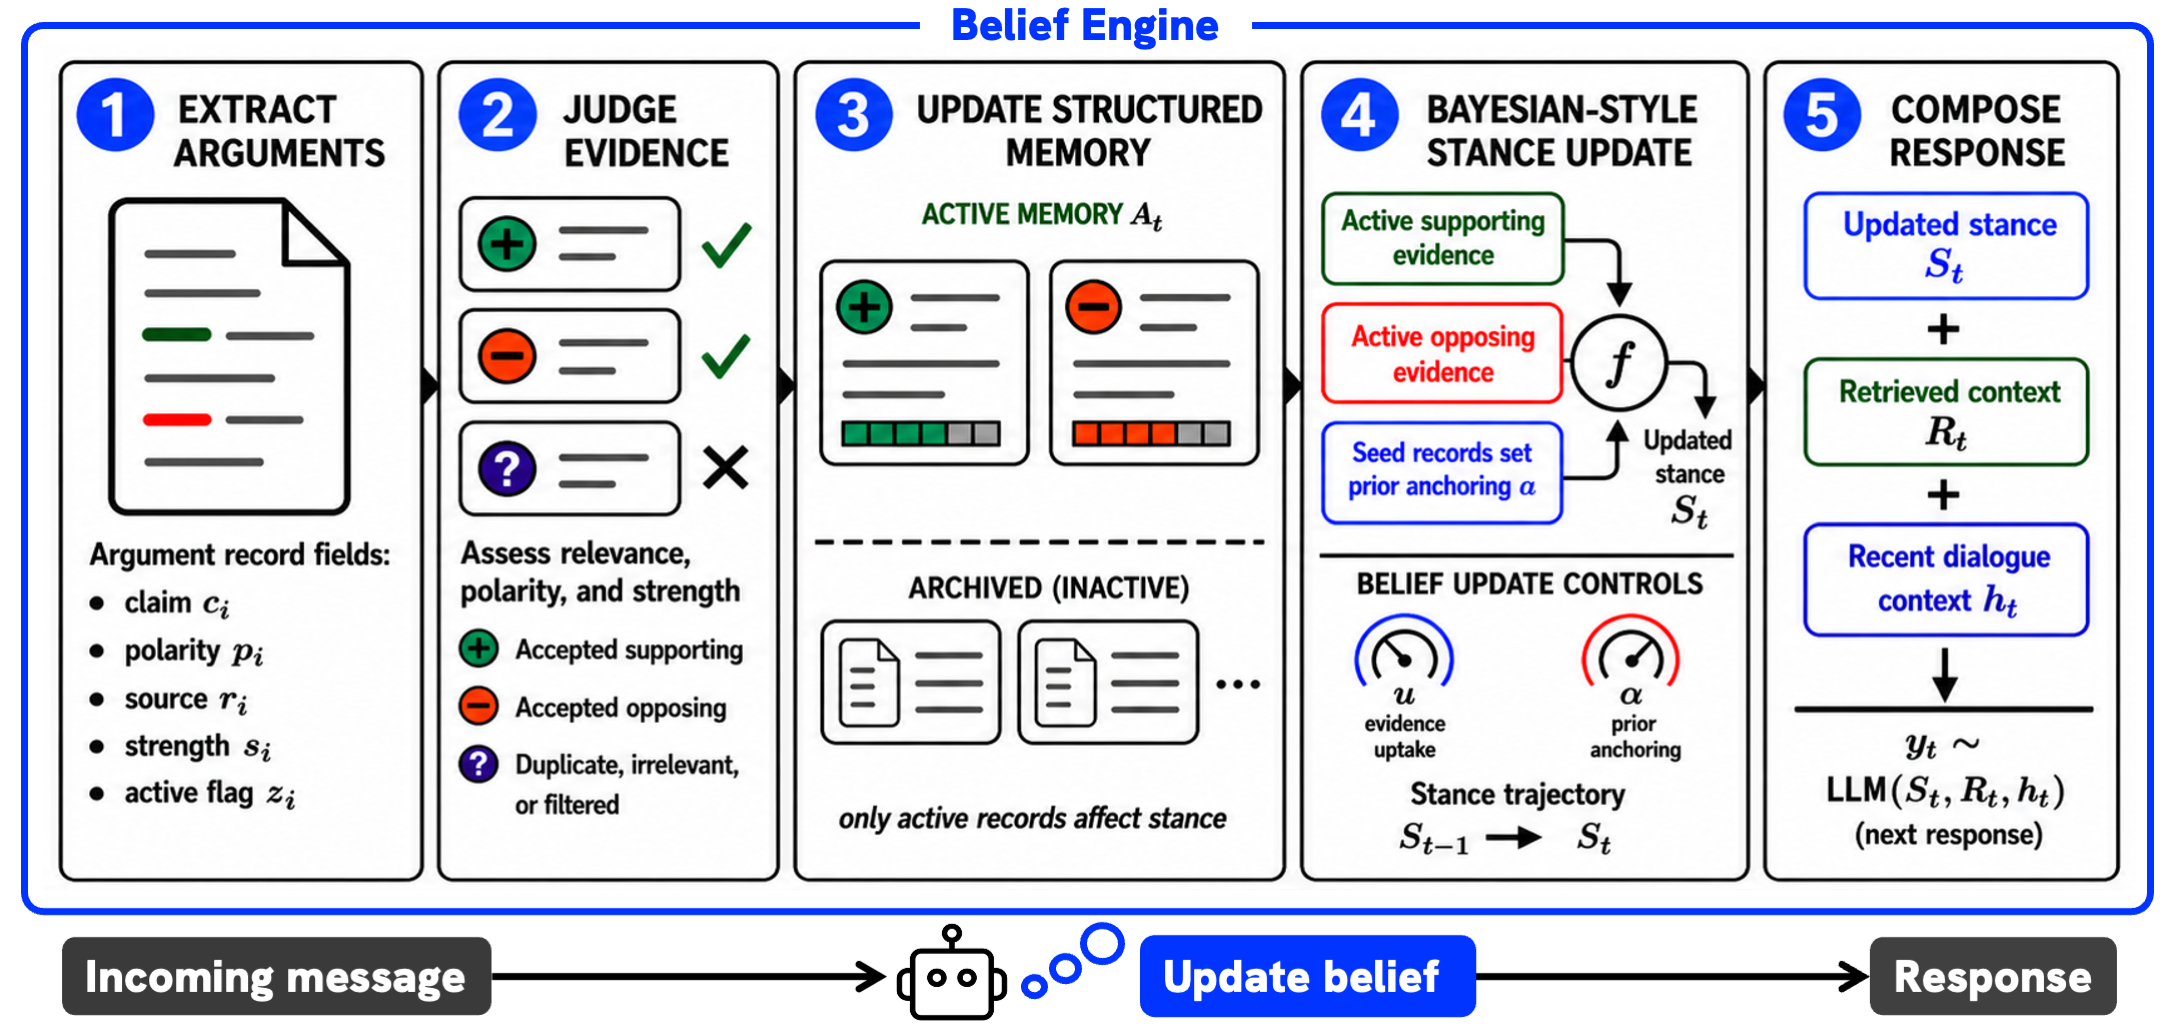
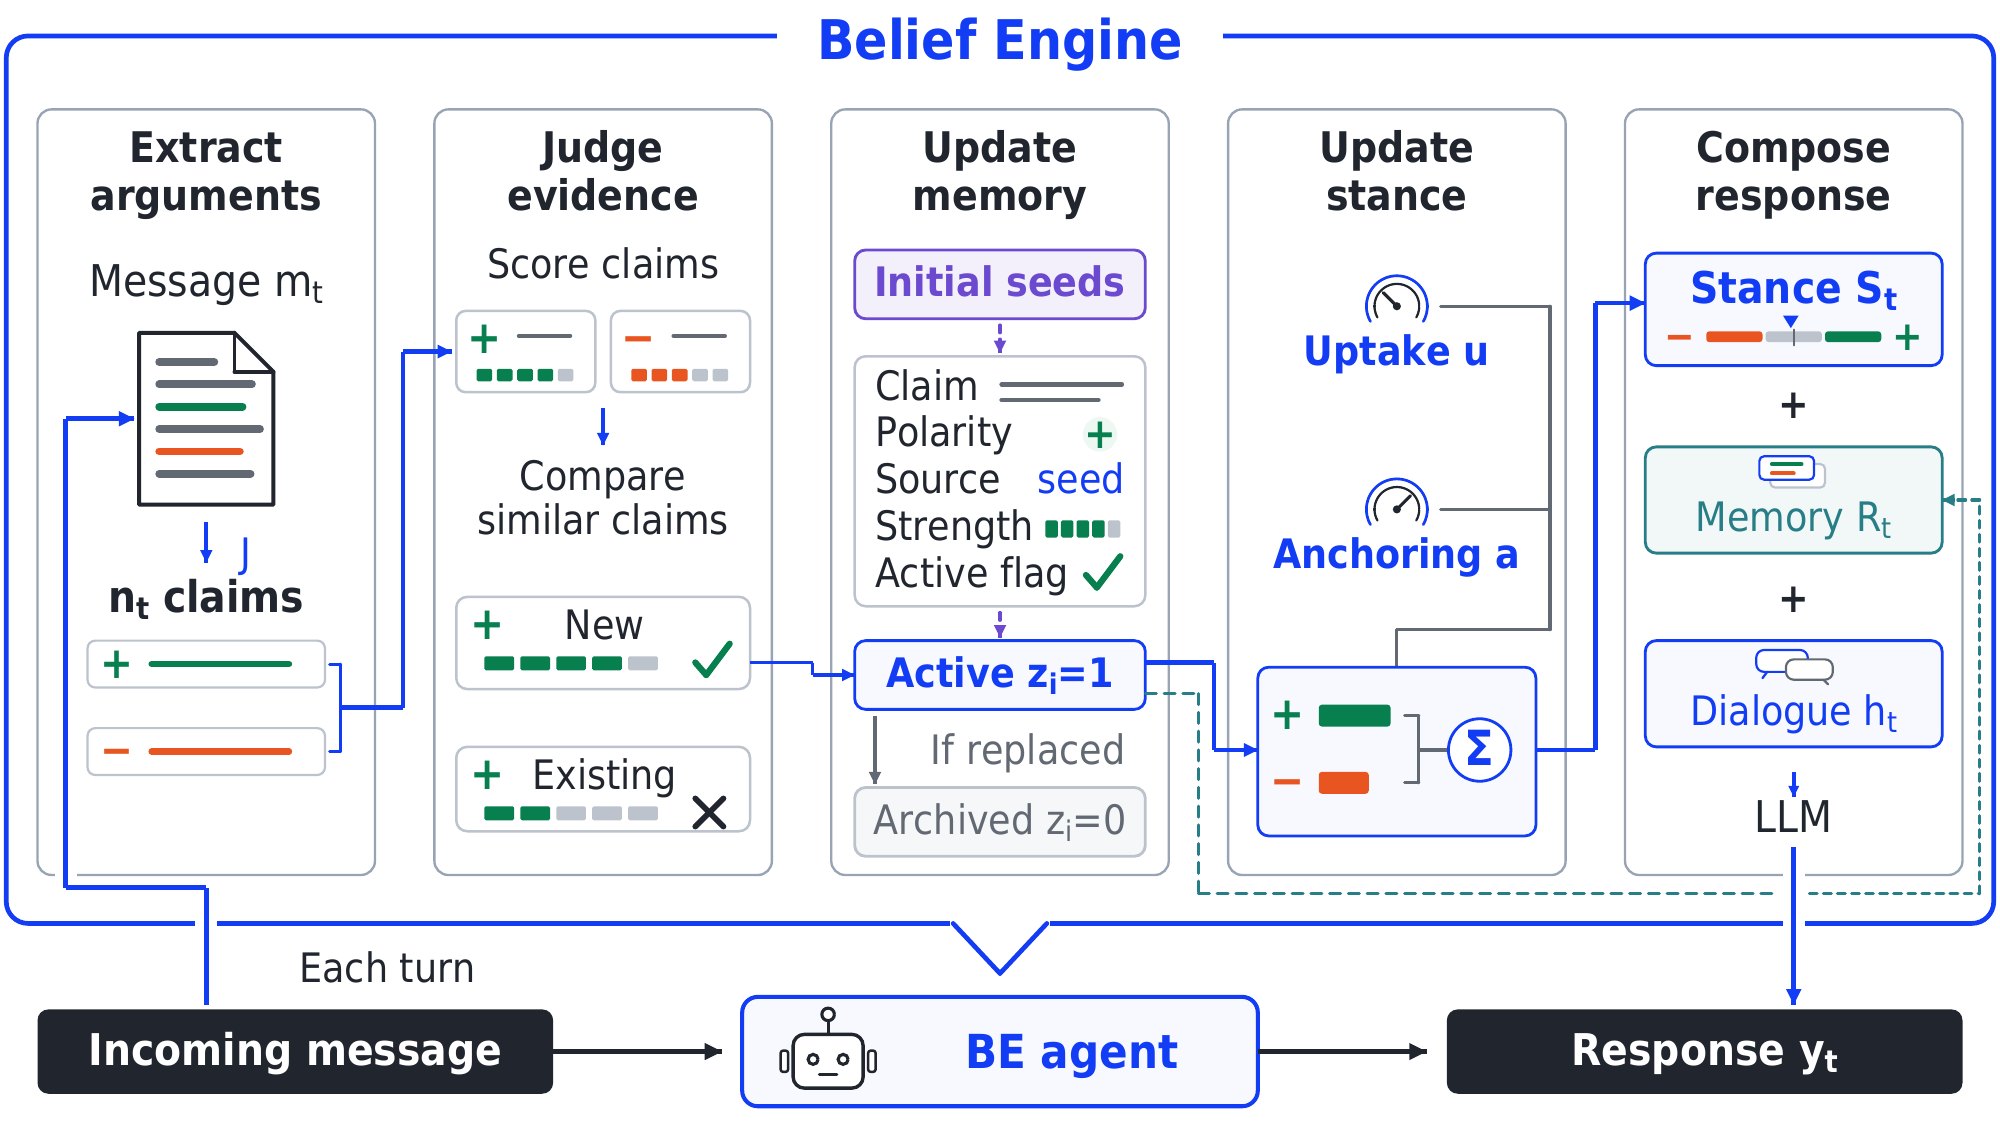
Update Belief Engine pages for NeurIPS camera-ready paper

diff --git a/_publications/belief-engine.md b/_publications/belief-engine.md
@@ -1,18 +1,16 @@
 ---
 layout: publication
-title: "Belief Engine: Configurable and Inspectable Stance Dynamics in Multi-Agent LLM Deliberation"
-description: "An auditable belief-update layer for multi-agent LLM deliberation, with structured memory and configurable stance dynamics."
+title: "Belief Engine: Making Agent Stance Auditable in LLM Deliberation"
+description: "Accepted at NeurIPS 2026. Belief Engine makes LLM agent stance auditable through structured evidence, memory, and configurable log-odds updates."
 bibkey: yang2026belief
 keywords: "multi-agent LLM deliberation, belief dynamics, stance updating, social simulation, deliberation"
 ---
 
 ## The Problem
 
-Most multi-agent LLM deliberation systems produce transcripts that look socially plausible, but the internal reason for a stance shift is hard to inspect. Did the agent change because it heard stronger evidence, because recent text dominated the prompt, because its persona drifted, or because the base model carried a hidden bias?
+An LLM agent can appear to change its position because it accepts evidence, echoes an interaction partner, drifts from its assigned role, or receives a different prompt or retrieved context. A plausible transcript alone does not distinguish these explanations.
 
-The deeper issue is that ordinary LLM agents do not really have a durable core. They can sound confident in one turn, drift in the next, or "change their mind" without any clear account of what convinced them. Belief Engine gives an agent a maintained stance: something stable enough to make the agent coherent, but flexible enough to be updated by evidence.
-
-That makes opinion change more human-like in the important sense: the agent can start somewhere, listen, be persuaded, resist weak arguments, and explain the path from its earlier position to its later one.
+Belief Engine makes one part of this process explicit: a maintained evidential state over a proposition, exposed as a scalar stance. Here, "belief" has a Bayesian modelling meaning. It is a state computed by the system, rather than a claim about an LLM's private beliefs or human cognition.
 
 ## What The System Does
 
@@ -20,33 +18,39 @@ Belief Engine runs a five-step loop:
 
 1. Extract arguments from incoming messages.
 2. Judge their polarity and evidential strength.
-3. Store active and archived claims in structured memory.
-4. Update a maintained stance using evidence uptake and prior anchoring.
-5. Compose the next response from stance, memory, and recent dialogue.
+3. Consolidate claims in structured memory, retaining active and archived records.
+4. Compute the belief state in log-odds space and expose it as a stance.
+5. Generate the next response from that stance, retrieved memory, and recent dialogue.
 
-The key design choice is that stance is not hidden inside a prompt. It is maintained explicitly, with an audit trail of the claims that moved it. This gives the agent something like a deliberative core rather than a loose stream of plausible responses.
+Two controls determine how evidence contributes: **evidence uptake (u)** weights later arguments, while **prior anchoring (a)** weights the initial commitment. In the active-record mode illustrated below, archived arguments remain available for audit but no longer contribute to the stance calculation.
 
 <figure>
-  <img src="{{ '/assets/img/publication_figures/belief-engine-architecture.png' | relative_url }}" alt="Belief Engine extracts arguments, judges evidence, maintains structured memory, updates stance, and composes a response." loading="lazy">
-  <figcaption>Figure 1. The Belief Engine architecture. Active evidence updates a maintained stance through evidence uptake and prior anchoring. Responses use that stance, retrieved memory, and recent dialogue.</figcaption>
+  <img src="{{ '/assets/img/publication_figures/belief-engine-architecture.png' | relative_url }}" alt="Incoming messages become scored claims in structured memory. Evidence uptake weights later arguments and prior anchoring weights seed arguments. Active evidence determines a scalar stance used with memory and dialogue to generate a reply." loading="lazy">
+  <figcaption>Figure 1. The camera-ready Belief Engine architecture. The update rule computes stance outside the language model, preserving a record of the evidence and settings behind each update.</figcaption>
 </figure>
 
 ## What The Paper Finds
 
-In generated 15-round debates, the two parameters behave as intended across multiple model backends. Raising evidence uptake makes agents more responsive to later arguments; raising prior anchoring makes them hold more strongly to the initial position.
+**Configurable stance dynamics.** Across multiple LLMs, higher evidence uptake increases responsiveness to new arguments, while stronger prior anchoring preserves the initial stance. Generated debates run for 15 rounds.
 
-The paper also validates that this internal stance is visible in generated language: an external judge's score of the generated text correlates strongly with the assigned stance (r = 0.967).
+**Closer expressed positions under the tested protocol.** In 150 debates across five topics, a shared external judge scores a mean final stance gap of 0.53 for BE, compared with 1.12 for prompt self-updating and 1.02 for retrieval-augmented self-updating. These results describe convergence in expressed positions under this protocol; they do not establish that convergence is always desirable.
 
-The most interesting result comes from replaying 2,495 human DEBATE trajectories. Belief Engine improves pooled final-stance reconstruction over no-change and net-evidence baselines, but the larger lesson is heterogeneity: stable participants, evidence-aligned movers, and evidence-opposed movers require different update profiles.
+**Expanded stance-to-text validation.** Across ten propositions, correlations between assigned stance and automated judgments of generated responses range from 0.934 to 0.970. This checks whether the generated text reflects the controlled stance, without establishing agreement with human readers or validating a model of human belief.
+
+**Human replay with uneven gains.** On 2,495 DEBATE participant trajectories, pooled held-out final-stance RMSE is 0.466, compared with 0.489 for carrying the initial stance forward and 0.488 for a fitted net-evidence baseline. Gains are strongest among participants whose opinions move in the direction of extracted evidence. Stable participants and those moving against that evidence require different profiles.
+
+These participant groups are defined using observed final opinions. Their results are diagnostic reconstructions, not a way to select a person's update profile before their final opinion is known.
 
 ## Why It Matters
 
-For civic simulation, educational debate, negotiation agents, and deliberation research, "the model said something plausible" is not enough. The system should expose what it treated as evidence, how much that evidence mattered, and how strongly prior commitments persisted.
+For deliberation research, civic simulation, educational debate, and negotiation agents, researchers need to inspect what counted as evidence, how strongly it affected the maintained state, and how much the initial position persisted.
 
-Belief Engine is useful because it turns those assumptions into explicit research objects. A future civic simulation can be asked not only what agents concluded, but what update rule made them get there.
+Belief Engine makes these modelling choices configurable and records the resulting trajectories. The revised paper also shows that different uptake and anchoring settings can reach the same final stance through different intermediate states, making the full path useful for auditing.
 
 ## Limitations To Read Carefully
 
-The current representation is intentionally narrow: one scalar stance over one proposition. That makes the system inspectable, but it cannot fully capture multidimensional political positions, values, trust, strategic behaviour, or sub-issue movement.
+The representation is deliberately narrow: one scalar stance over one proposition. It does not capture sub-issue positions, trust, values, or strategic behaviour.
 
-The evidence pipeline also depends on argument extraction and quality scoring. Making those steps explicit is a major improvement, but it does not make them automatically neutral.
+The evidence pipeline depends on argument extraction and strength scoring. An explicit audit trail does not make those judgments neutral, and argument scores are not calibrated likelihoods. The update is Bayesian-inspired.
+
+Human replay holds the received evidence stream fixed. It reconstructs final opinions without generating new interactions or observing intermediate human stances. Its strongest results concern evidence-following opinion changes; gains across the full population are more modest.
